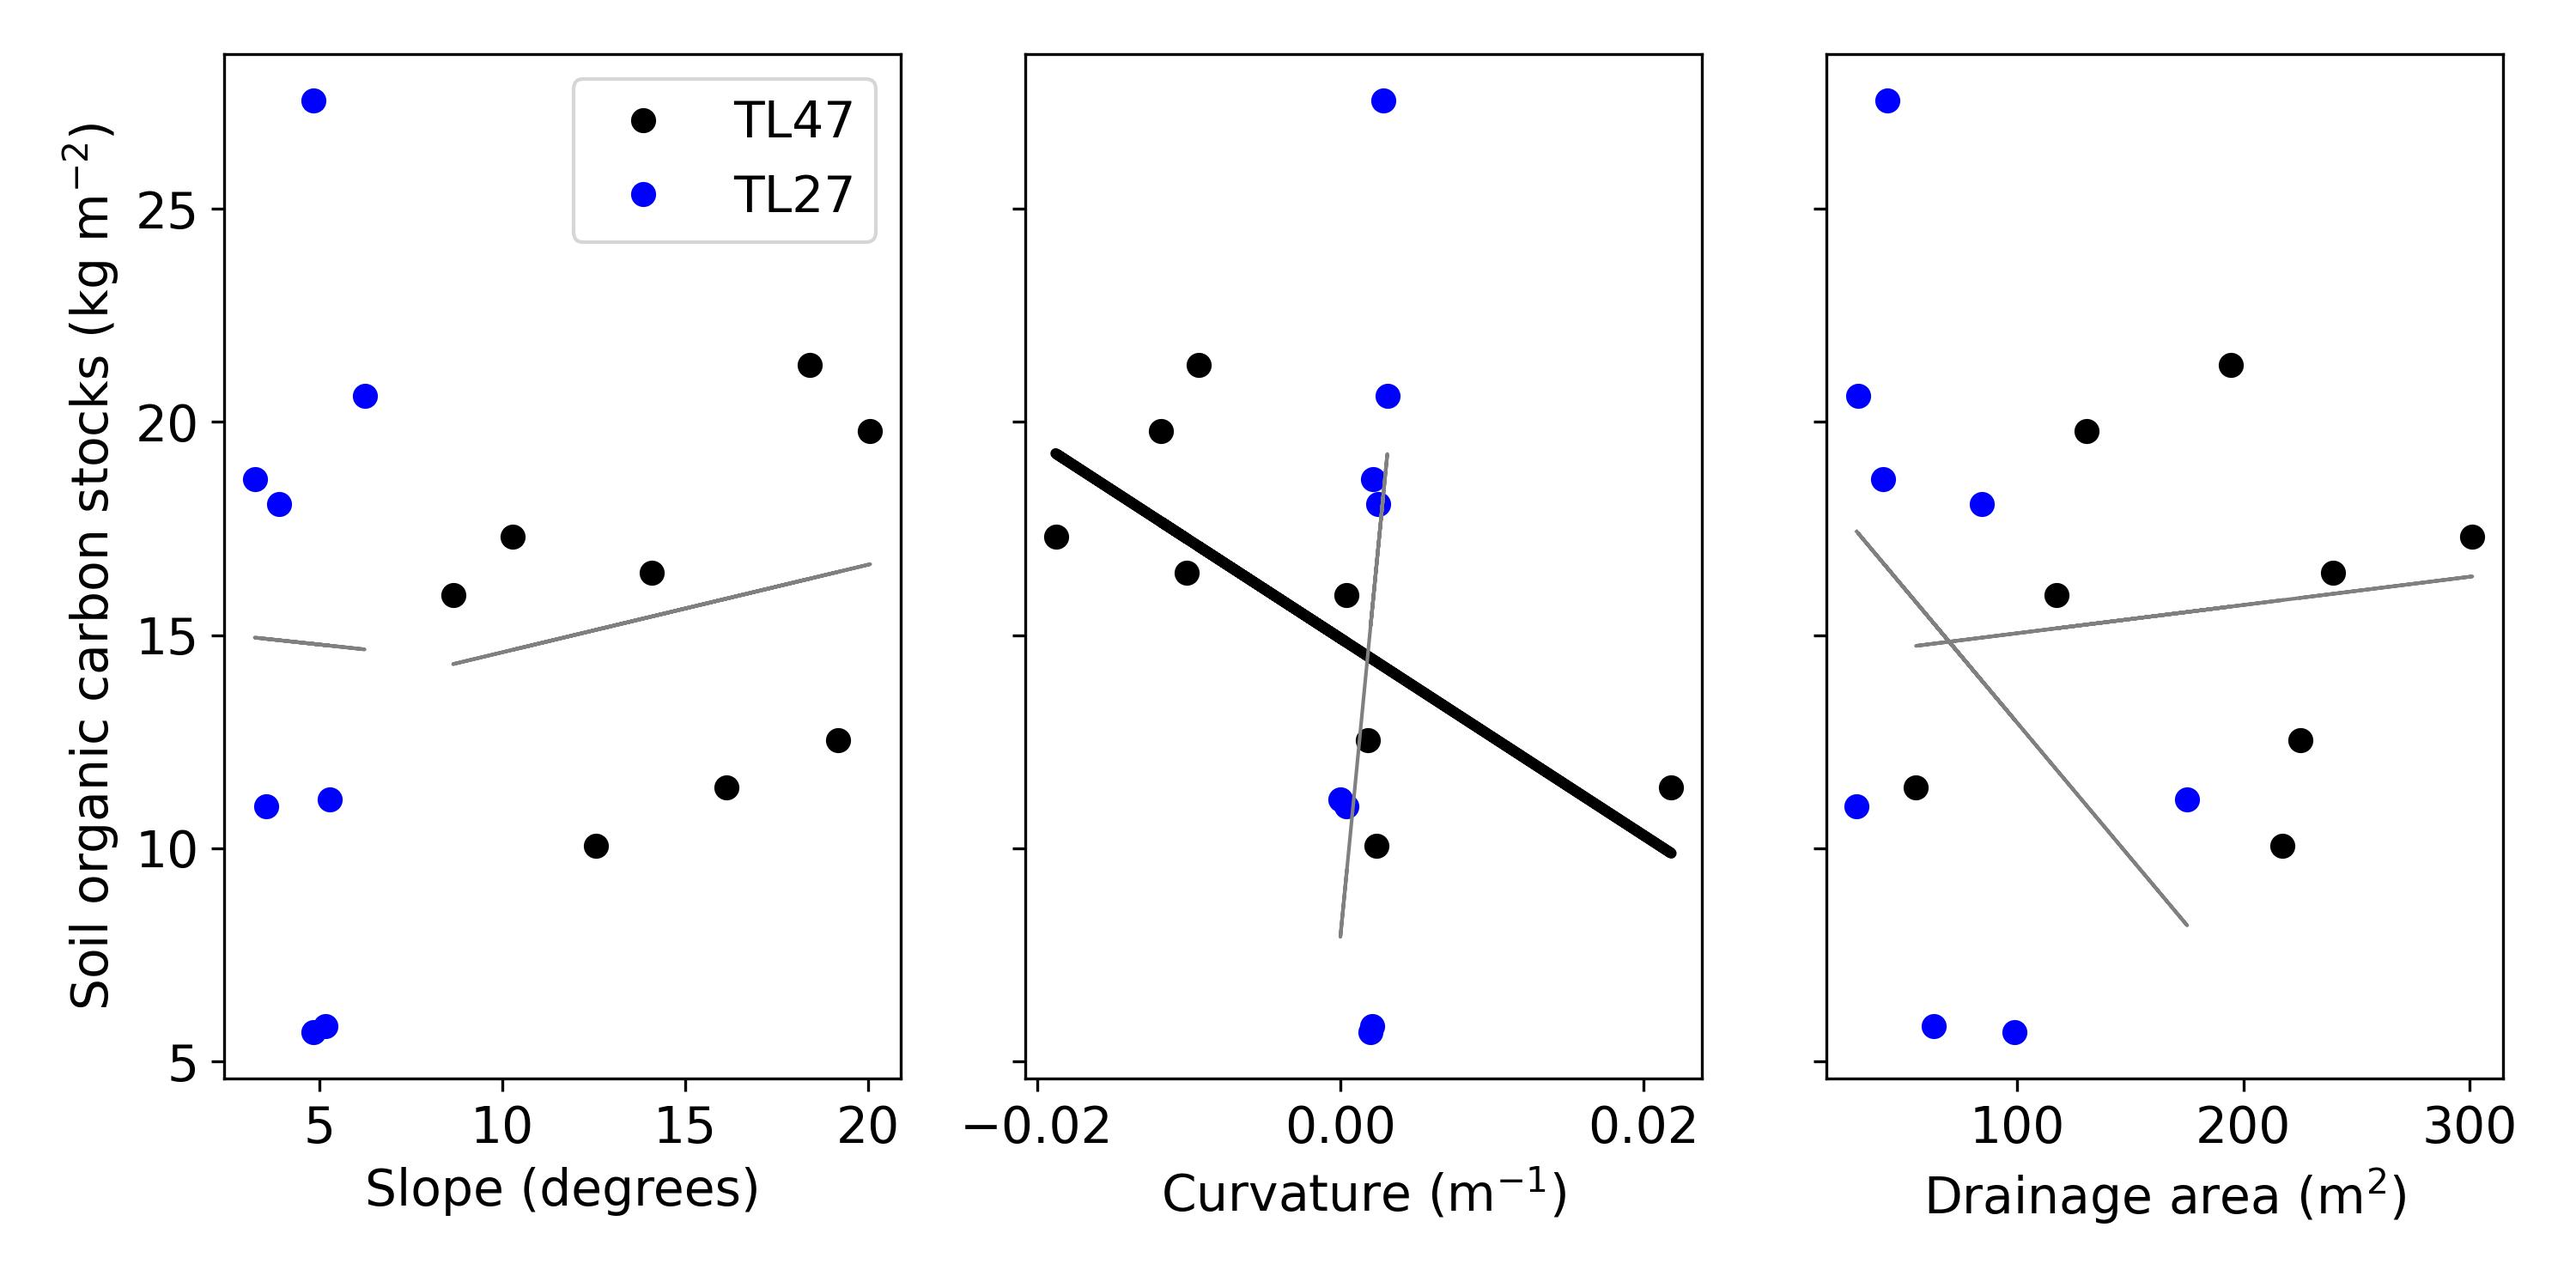
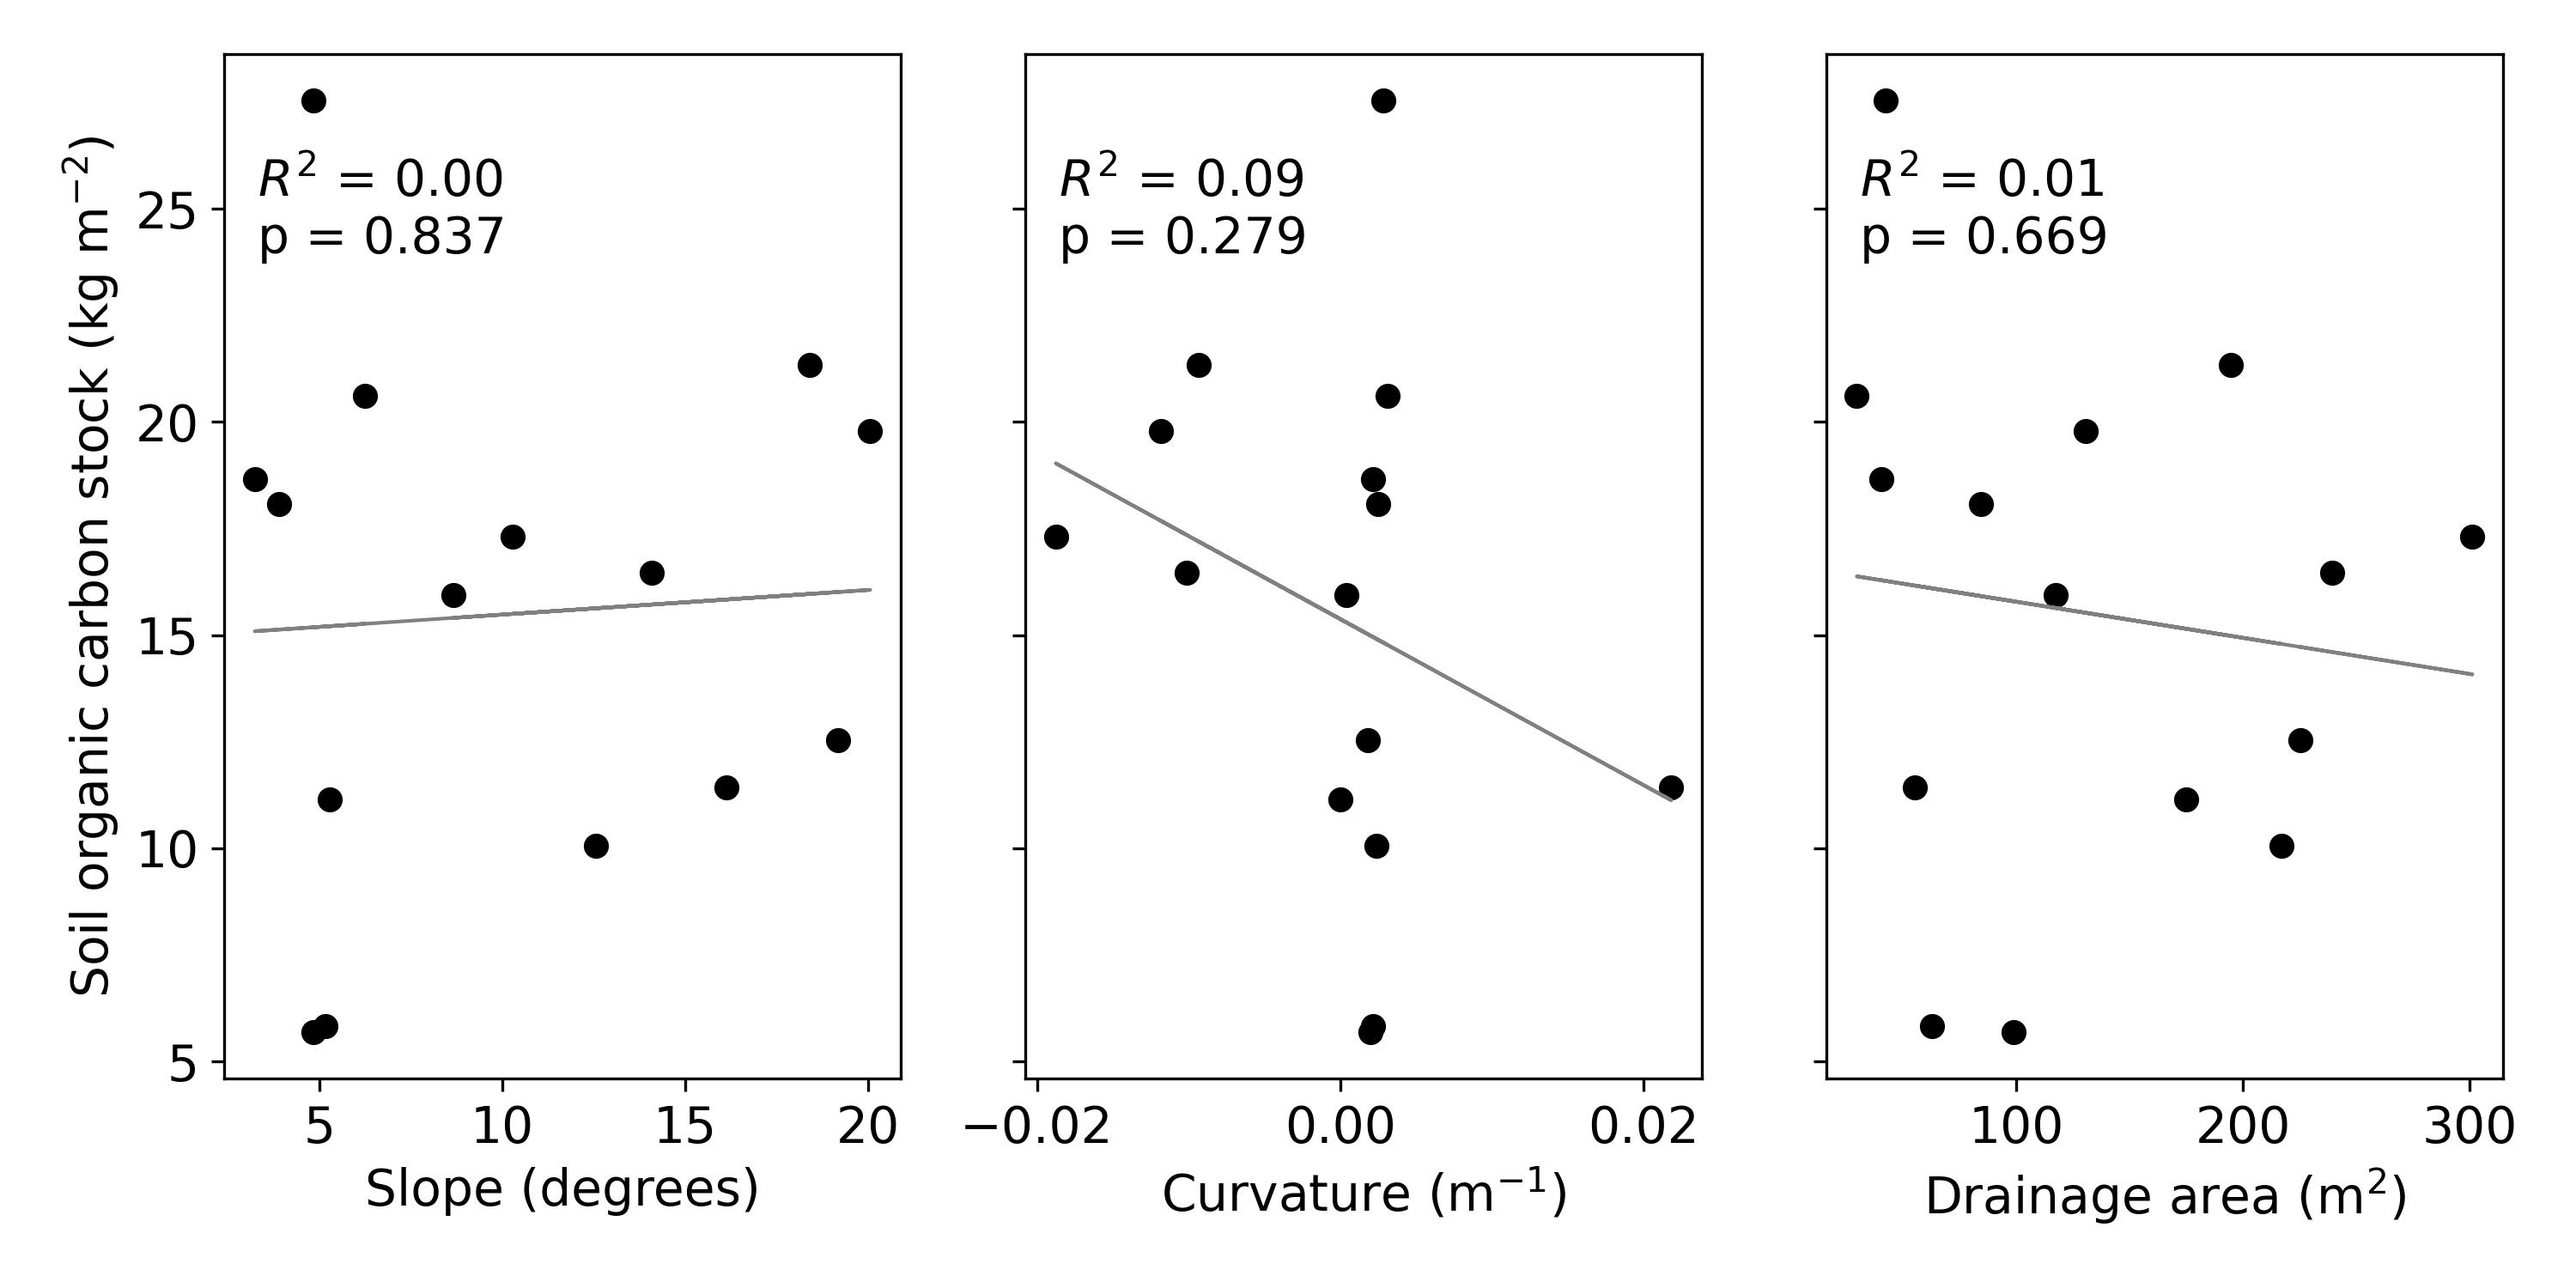
updates to figures

diff --git a/pythonScripts/CorvariatePlotting.py b/pythonScripts/CorvariatePlotting.py
@@ -4,279 +4,93 @@ from scipy.optimize import curve_fit
 import pandas as pd
 import numpy as np
 plt.rcParams.update({'font.size': 14})
-df_sites = pd.read_csv('/Users/evanthaler/Documents/GitHub/CarbonStocksDisplacments/FinalCleanedFiles/wDisplacement/TL47TL27StocksDisplacement.csv')
+df_sites = pd.read_csv('/Users/evanthaler/Documents/GitHub/CarbonStocksDisplacments/FinalCleanedFiles/wDisplacement/TL47TL27StocksDisplacement_covariates_CNratio.csv')
[1 lines of base64/hex data omitted]
-#################################
-#Displacement fit all data ######
-#################################
-def lognormal_hump(x, a, mu, sigma):
-    return a * np.exp(-(np.log(x) - mu)**2 / (2 * sigma**2))
-def linear_exp(x, x0, y0, m, k):
-    return np.where(
-        x <= x0,
-        m * (x - x0) + y0,
-        y0 * np.exp(-k * (x - x0))
-    )
-
-def soil_prod_hump(x, a, b):
-    return a * x * np.exp(-b * x)
 
 
-def fitDispAllData(df,outfig,xcol='mean_disp_rate',ycol='Total_C_stock_kg_m2_0to50cm',ycollabel='Soil organic carbon stock (kg m$^{-2}$)',plotline=True):
-    x = df[xcol]*0.5
-    y = df[ycol]
-    x0_init = x[np.argmax(y)]# pick the y peak location for x
-    y0_init = y.max()
-    fig,ax = plt.subplots(figsize=(6,5))
-    if plotline:
-        
-    # ax.axvspan(
-    #     x0 - x0_ci, x0 + x0_ci,
-    #     color="gray", alpha=0.2
-    # )
-        # p0 = [
-        #     x0_init,      # x0 (peak location)
-        #     y0_init,      # y0 (peak value)
-        #     200,          # m (slope; adjust if needed)
-        #     50            # k (decay rate; adjust if needed)
-        # ]
 
-        # popt, pcov = curve_fit(
-        #     linear_exp, x, y, p0=p0, maxfev=10000
-        # )
-        # x0, y0, m, k = popt
-        # #Get peak standard error
-        # x0_se = np.sqrt(pcov[0, 0])          # standard error
-        # x0_ci = 1.96 * x0_se   
-
-        
-        mask = x > 0  # log requires positive x
-
-        p0 = [np.max(y), np.log(np.median(x)), 0.5]
-
-        params, cov = curve_fit(
-            lognormal_hump, x[mask], y[mask], p0=p0
-        )
-
-        xfit = np.linspace(x[mask].min(), x.max(), 200)
-        yfit = lognormal_hump(xfit, *params)
-        ax.plot(xfit, yfit, color='k', lw=2)
-    # x_fit = np.linspace(x.min(), x.max(), 400)
-    # y_fit = linear_exp(x_fit, *popt)
-    
-    
-  
-
-    # ax.plot(df_sites.loc[df_sites['Site'] == 'TL47','mean_disp_rate']*0.5,
-    # df_sites.loc[df_sites['Site'] == 'TL47',ycol],'ok',label='Teller 47')
-
-    ax.plot(df_sites.loc[df_sites['Site'] == 'TL27','mean_disp_rate']*0.5,
-    df_sites.loc[df_sites['Site'] == 'TL27',ycol],'ob',label='Teller 27')
+x,y = df_sites.mean_disp_rate*0.5,df_sites.C_N_ratio
+cn_linstats = linregress(x,y)
+fig,ax = plt.subplots(figsize=(6,6))
+ax.plot(x,y,'.k',markersize=12)
+ax.plot(x,x*cn_linstats.slope+cn_linstats.intercept,'-k')
+ax.set_ylabel('C:N')
+ax.set_xlabel('Soil flux (m$^{2}$ yr$^{-1}$)')
+plt.text(0.05*0.5, 13,f'$r^{2}$={cn_linstats.rvalue**2:.2f}')
+plt.text(0.05*0.5, 12.5,f'$p$={cn_linstats.pvalue:.3f}')
+plt.savefig(f'{figoutdir}/CNvsFluxes.jpg',dpi=300)
+plt.show()
+print(cn_linstats.rvalue**2,cn_linstats.pvalue)
 
 
 
 
-    ax.set_ylabel(ycollabel)
-    ax.set_xlabel('Soil flux (m$^{2}$ yr$^{-1}$)')
-    plt.tight_layout()
-    ax.legend()
-    plt.savefig(outfig,dpi=300)
-    plt.show()
 
-
-fitDispAllData(df_sites,f'{figoutdir}/TL27CstockDisplacementCombinedSites_flux_.jpg',plotline=False)
-
-###################################################################
-def normalizeDisplacement(df,site,dispcol = 'mean_disp_rate',sitecol='Site'):
-    df_site = df[df[sitecol]==site]
-    disp_norm = df_site[dispcol]/np.max(df_site[dispcol])
-    return disp_norm
-    
-tl27dispnorm = normalizeDisplacement(df_sites,'TL27')
-tl47dispnorm = normalizeDisplacement(df_sites,'TL47')
-
-##################################################
-#Just some renaming to make labeling prettier later
-##################################################
-col_dict = {'slope':'Slope (degrees)',
-            'curv':'Curvature (m$^{-1}$)',
-            'drainagearea':'Drainage area (m$^{2}$)',
-            'ndvi':'NDVI'}
-df_sites = df_sites.rename(columns = col_dict)
-
-##########################
-df_sites['normalized_disp'] = np.zeros(len(df_sites['mean_disp_rate']))
-df_sites.loc[df_sites['Site'] == 'TL27', 'normalized_disp'] = tl27dispnorm
-df_sites.loc[df_sites['Site'] == 'TL47', 'normalized_disp'] = tl47dispnorm
-#############################
-tl27_df = df_sites[df_sites.Site=='TL27']
-tl47_df = df_sites[df_sites.Site=='TL47']
+# ###################################################################
 
 #########
 #Plotting Displacment and covars for each site
 #########
+cols_to_plot = ['slope','curv','drainagearea']
 cols = ['Slope (degrees)',
             'Curvature (m$^{-1}$)',
             'Drainage area (m$^{2}$)']
 
 fig, axes = plt.subplots(1,3, figsize=(10, 5), sharey=True)
 axes = axes.flatten()
-for ax, col in zip(axes, cols):
-    linstats_47 = linregress(tl47_df[col],tl47_df.mean_disp_rate)
-    linstats_27 = linregress(tl27_df[col],tl27_df.mean_disp_rate)
-    yline_47 = linstats_47.slope * tl47_df[col] + linstats_47.intercept
-    yline_27 = linstats_27.slope * tl27_df[col] + linstats_27.intercept
-    ax.plot(tl47_df[col],tl47_df.mean_disp_rate,  'ok', label='TL47')
-    ax.plot(tl27_df[col],tl27_df.mean_disp_rate,  'ob', label='TL27')
-    if linstats_47.pvalue < 0.05:
-        ax.plot(tl47_df[col], yline_47, '-k', lw=3)
-    else:
-        ax.plot(tl47_df[col], yline_47, '-',color='gray', lw=1, ms=10)
-    if linstats_27.pvalue < 0.05:
-        ax.plot(tl27_df[col], yline_27, '-b', lw=3)
-    else:
-        ax.plot(tl27_df[col], yline_27, '-',color='gray', lw=1, ms=10)
-    ax.set_xlabel(col)
-    print(f"{col} | TL47 p={linstats_47.pvalue:.3g}, TL27 p={linstats_27.pvalue:.3g}")
-for ax in axes[[0]]:
-    ax.set_ylabel('Horizontal displacement (m yr$^{-1}$)')
+for ax, col,colname in zip(axes, cols_to_plot,cols):
+    x,y = df_sites[col],df_sites.mean_disp_rate*0.5
+    linstats = linregress(x,y)
+    
+    yline = linstats.slope * x + linstats.intercept
 
-axes[0].legend(loc='best')
+    ax.plot(x,y,  'ok')
+    #ax.text(0.25*max(x),0.025,f'$r^{2}$={linstats.rvalue**2:.2f}')
+    ax.text( 0.05, 0.9,  # position (top-left)
+        f'$R^2$ = {linstats.rvalue**2:.2f}\np = {linstats.pvalue:.3f}',
+        transform=ax.transAxes,
+        verticalalignment='top')
+    if linstats.pvalue < 0.05:
+        ax.plot(x, yline, '-k', lw=3)
+    else:
+        ax.plot(x, yline, '-',color='gray', lw=1, ms=10)
+
+    ax.set_xlabel(colname)
+for ax in axes[[0]]:
+    ax.set_ylabel('Soil flux (m$^{2}$ yr$^{-1}$)')
+
+
 plt.tight_layout()
 plt.savefig(f'{figoutdir}/DisplacementCovariates.jpg', dpi=300)
 plt.show()
 
-#########
-#Plotting carbon and covars for each site
-#########
-fig, axes = plt.subplots(1,3, figsize=(10, 5), sharey=True)
-axes = axes.flatten()
-for ax, col in zip(axes, cols):
-    linstats_47 = linregress(tl47_df[col],tl47_df.Total_C_stock_kg_m2_0to50cm )
-    linstats_27 = linregress(tl27_df[col],tl27_df.Total_C_stock_kg_m2_0to50cm )
-    yline_47 = linstats_47.slope * tl47_df[col] + linstats_47.intercept
-    yline_27 = linstats_27.slope * tl27_df[col] + linstats_27.intercept
-    ax.plot(tl47_df[col],tl47_df.Total_C_stock_kg_m2_0to50cm , 'ok', label='TL47')
-    ax.plot(tl27_df[col],tl27_df.Total_C_stock_kg_m2_0to50cm, 'ob', label='TL27')
-    if linstats_47.pvalue < 0.05:
-        ax.plot(tl47_df[col], yline_47, '-k', lw=3)
-    else:
-        ax.plot(tl47_df[col], yline_47, '-',color='gray', lw=1, ms=10)
-    if linstats_27.pvalue < 0.05:
-        ax.plot(tl27_df[col], yline_27, '-b', lw=3)
-    else:
-        ax.plot(tl27_df[col], yline_27, '-',color='gray', lw=1, ms=10)
-    ax.set_xlabel(col)
-    print(f"{col} | TL47 p={linstats_47.pvalue:.3g}, TL27 p={linstats_27.pvalue:.3g}")
-for ax in axes[[0]]:
-    ax.set_ylabel('Soil organic carbon stocks (kg m$^{-2}$)')
+######################################
 
-axes[0].legend(loc='best')
-plt.tight_layout()
-plt.savefig(f'{figoutdir}/CstocksCovariates.jpg', dpi=300)
-plt.show()
-
-
-#########
-#Plotting carbon and covars for combined sites
-#########
 
 fig, axes = plt.subplots(1,3, figsize=(10, 5), sharey=True)
 axes = axes.flatten()
-for ax, col in zip(axes, cols):
-    x = df_sites[col]
-    y = df_sites.Total_C_stock_kg_m2_0to50cm
-    linstats_carb = linregress(x,y)
-    yline_disp = linstats_carb.slope * x + linstats_carb.intercept
-    ax.plot(x,y, 'ok')
-    print(f"{col} | p={linstats_carb.pvalue:.3g}")
-    if linstats_carb.pvalue < 0.05:
-        ax.plot(x, yline_disp, '-k', lw=3)
+for ax, col,colname in zip(axes, cols_to_plot,cols):
+    x,y = df_sites[col],df_sites.Total_C_stock_kg_m2_0to50cm
+    linstats = linregress(x,y)
+    
+    yline = linstats.slope * x + linstats.intercept
+
+    ax.plot(x,y,  'ok')
+    #ax.text(0.25*max(x),0.025,f'$r^{2}$={linstats.rvalue**2:.2f}')
+    ax.text( 0.05, 0.9,  # position (top-left)
+        f'$R^2$ = {linstats.rvalue**2:.2f}\np = {linstats.pvalue:.3f}',
+        transform=ax.transAxes,
+        verticalalignment='top')
+    if linstats.pvalue < 0.05:
+        ax.plot(x, yline, '-k', lw=3)
     else:
-        ax.plot(x, yline_disp, '-',color='gray', lw=1, ms=10)
+        ax.plot(x, yline, '-',color='gray', lw=1, ms=10)
 
-    ax.set_xlabel(col)
-
+    ax.set_xlabel(colname)
 for ax in axes[[0]]:
-    ax.set_ylabel('Soil organic carbon stocks (kg m$^{-2}$)')
+    ax.set_ylabel('Soil organic carbon stock (kg m$^{-2}$)')
+
 
 plt.tight_layout()
-plt.savefig(f'{figoutdir}/CstocksCovariates_BothSites.jpg', dpi=300)
-plt.show()
-
-
-#########
-#Plotting disp and covars for combined sites
-#########
-
-fig, axes = plt.subplots(1,3, figsize=(10, 5), sharey=True)
-axes = axes.flatten()
-for ax, col in zip(axes, cols):
-    x = df_sites[col]
-    y = df_sites.mean_disp_rate
-    linstats_carb = linregress(x,y)
-    yline_disp = linstats_carb.slope * x + linstats_carb.intercept
-    ax.plot(x,y, 'ok')
-    print(f"{col} | p={linstats_carb.pvalue:.3g}")
-    if linstats_carb.pvalue < 0.05:
-        ax.plot(x, yline_disp, '-k', lw=3)
-    else:
-        ax.plot(x, yline_disp, '-',color='gray', lw=1, ms=10)
-
-    ax.set_xlabel(col)
-
-for ax in axes[[0]]:
-    ax.set_ylabel('Horizontal displacement (m yr${-1}$)')
-
-plt.tight_layout()
-#plt.savefig(f'{figoutdir}/DisplacementCovariates_BothSites.jpg', dpi=300)
-plt.show()
-
-
-
-
-
-########################
-#########
-#########################
-ycol='Total_C_stock_kg_m2_0to50cm'
-ycollabel='Soil organic carbon stock (kg m$^{-2}$)'
-linreg_47 = linregress(df_sites.loc[df_sites['Site'] == 'TL47','mean_disp_rate'],
-df_sites.loc[df_sites['Site'] == 'TL47',ycol])
-fig,ax = plt.subplots(figsize=(5,5))
-ax.plot(
-    df_sites.loc[df_sites['Site'] == 'TL47','mean_disp_rate'],
-    df_sites.loc[df_sites['Site'] == 'TL47',ycol],'ok',label='Teller 47')
-
-ax.plot(
-    df_sites.loc[df_sites['Site'] == 'TL47','mean_disp_rate'],
-    linreg_47.slope*df_sites.loc[df_sites['Site'] == 'TL47','mean_disp_rate']+linreg_47.intercept,'-k'
-
-)
-ax.text(0.02,13,f'r$^{2}$={linreg_47.rvalue**2:.2f}')
-ax.set_xlabel('Horizontal displacement rate (m yr$^{-1}$)')
-ax.set_ylabel(ycollabel)
-plt.tight_layout()
-plt.savefig(f'{figoutdir}/TL47StocksDisp.jpg',dpi=300)
-plt.show()
-
-
-linreg_27 = linregress(df_sites.loc[df_sites['Site'] == 'TL27','mean_disp_rate'],
-df_sites.loc[df_sites['Site'] == 'TL27',ycol])
-
-fig,ax = plt.subplots(figsize=(5,5))
-ax.plot(
-    df_sites.loc[df_sites['Site'] == 'TL27','mean_disp_rate'],
-    df_sites.loc[df_sites['Site'] == 'TL27',ycol],'ob',label='Teller 27')
-
-ax.plot(
-    df_sites.loc[df_sites['Site'] == 'TL27','mean_disp_rate'],
-    linreg_27.slope*df_sites.loc[df_sites['Site'] == 'TL27','mean_disp_rate']+linreg_27.intercept,'-b'
-
-)
-ax.set_xlabel('Horizontal displacement rate (m yr$^{-1}$)')
-ax.set_ylabel(ycollabel)
-ax.text(0.016,25,f'r$^{2}$={linreg_27.rvalue**2:.2f}')
-plt.tight_layout()
-plt.savefig(f'{figoutdir}/TL27StocksDisp.jpg',dpi=300)
+plt.savefig(f'{figoutdir}/CStocksCovariates.jpg', dpi=300)
 plt.show()

diff --git a/pythonScripts/Stock_Flux_CN_figure.py b/pythonScripts/Stock_Flux_CN_figure.py
@@ -4,7 +4,7 @@ from scipy.optimize import curve_fit
 import pandas as pd
 import numpy as np
 plt.rcParams.update({'font.size': 14})
-df_sites = pd.read_csv('/Users/evanthaler/Documents/GitHub/CarbonStocksDisplacments/FinalCleanedFiles/wDisplacement/TL47TL27StocksDisplacement_multicurv.csv')
+df_sites = pd.read_csv('/Users/evanthaler/Documents/GitHub/CarbonStocksDisplacments/FinalCleanedFiles/wDisplacement/TL47TL27StocksDisplacement_covariates_CNratio.csv')
[1 lines of base64/hex data omitted]
 def lognormal_hump(x, a, mu, sigma):
     return a * np.exp(-(np.log(x) - mu)**2 / (2 * sigma**2))
@@ -22,7 +22,7 @@ def fitDispAllData(df,outfig,xcol='mean_disp_rate',ycol='Total_C_stock_kg_m2_0to
     y = df[ycol]
     x0_init = x[np.argmax(y)]# pick the y peak location for x
     y0_init = y.max()
-    fig,ax = plt.subplots(figsize=(6,5))
+    fig,ax = plt.subplots(figsize=(7,6))
     if plotline:
         
 
@@ -40,7 +40,7 @@ def fitDispAllData(df,outfig,xcol='mean_disp_rate',ycol='Total_C_stock_kg_m2_0to
         ax.plot(xfit, yfit, color='k', lw=2)
 
 
-    scat1 = ax.scatter(df_sites[xcol]*0.5,df_sites[ycol],c= df_sites[scat_col],s=df_sites['slope']*20,cmap='gist_earth_r',edgecolor='k')
+    scat1 = ax.scatter(df_sites[xcol]*0.5,df_sites[ycol],c= df_sites[scat_col],s=df_sites['slope']*20,cmap='viridis',edgecolor='k')
     #scat2 = ax.scatter(tl27_disp,tl27_ycol,c = tl27_scatcol, s=100,cmap='viridis')
     cbar = plt.colorbar(scat1,label=scat_col_label)
 
@@ -67,17 +67,3 @@ def fitDispAllData(df,outfig,xcol='mean_disp_rate',ycol='Total_C_stock_kg_m2_0to
 
 fitDispAllData(df_sites,f'{figoutdir}/TL27CstockDisplacementCombinedSites_flux_.jpg',plotline=False)
 
-
-
-# fig,ax=plt.subplots(figsize=(6,6))
-# ax.plot(df_sites.C_N_ratio,df_sites.Total_C_stock_kg_m2_0to50cm,'ok')
-# ax.set_ylabel('SOC stocks')
-# ax.set_xlabel('C:N')
-# plt.show()
-
-
-# fig,ax=plt.subplots(figsize=(6,6))
-# ax.plot(df_sites.mean_disp_rate*.5,df_sites.C_N_ratio,'ok')
-# ax.set_xlabel('flux')
-# ax.set_ylabel('C:N')
-# plt.show()
